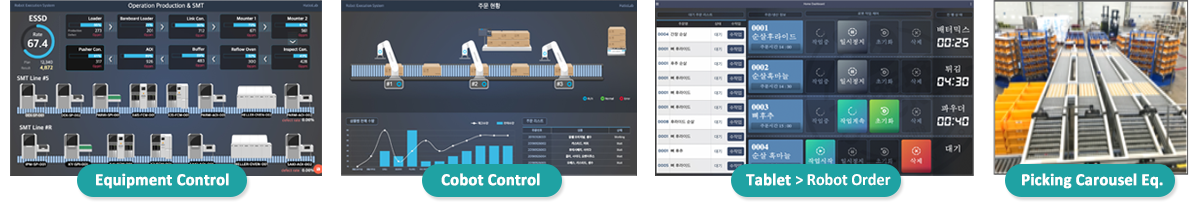
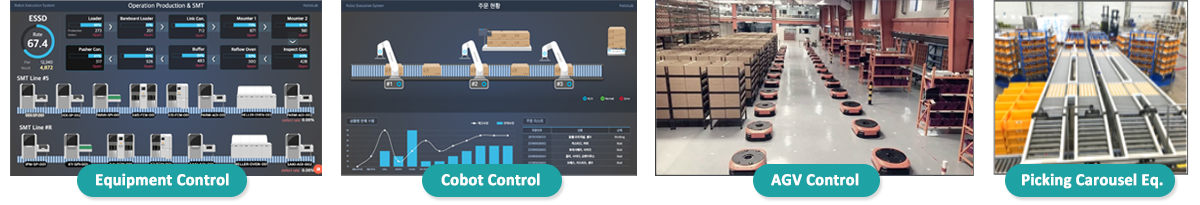
operato page update

Changed region(s): [[0.5242, 0.0, 0.8325, 0.9951]]

diff --git a/operato.html b/operato.html
@@ -416,7 +416,7 @@
                   인터페이스를 활용하여 복잡한 데이터를 편리하게 구현합니다.
                 </li>
               </ul>
-              <img src="assets/img/operato-detail1.png" />
+              <img src="assets/img/operato-feature1.png" />
             </div>
           </div>
 
